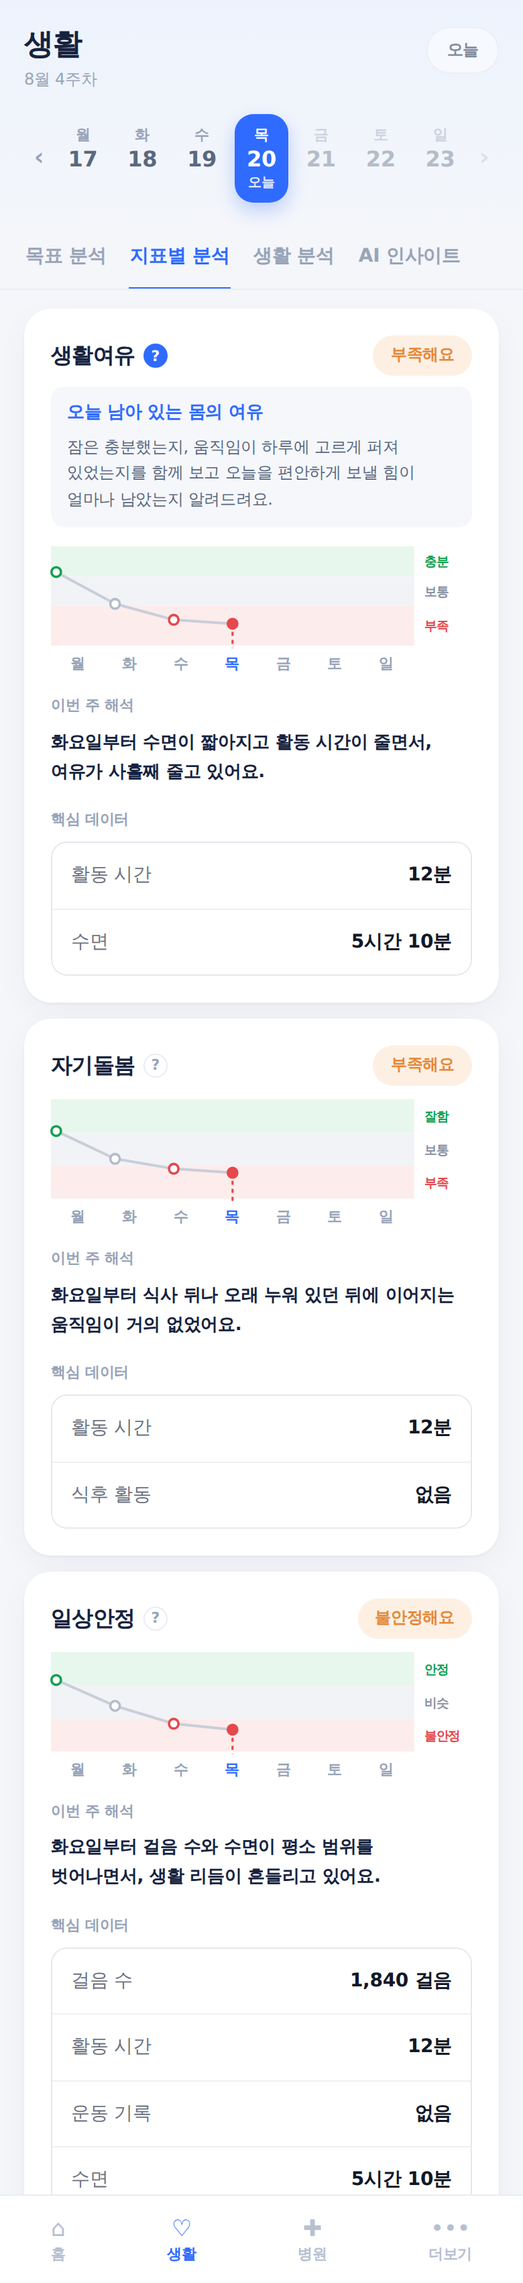
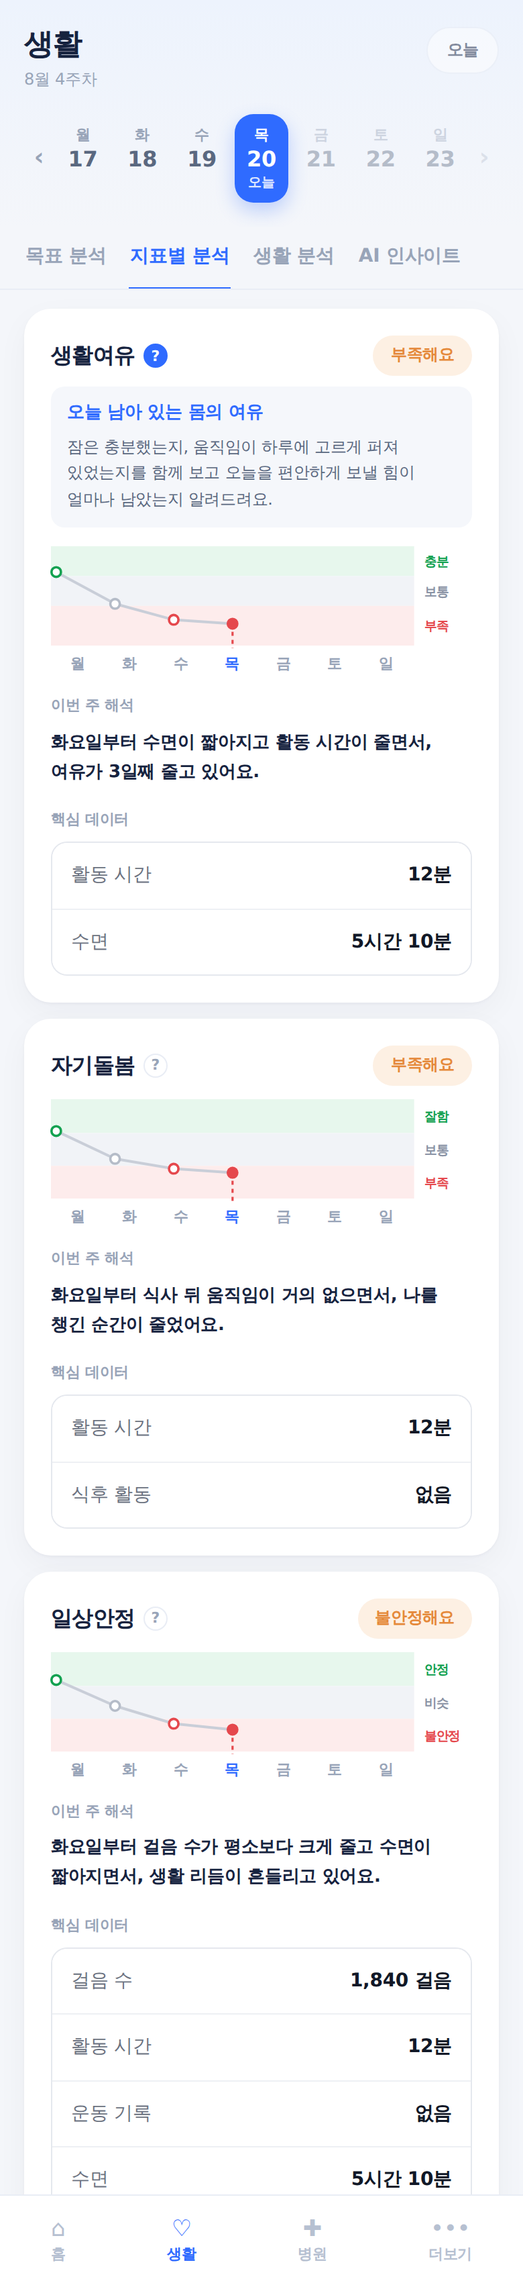
지표 해석 문구 사전 수정(반복 · 유지 표현 · 길이), 문장 세트 재생성, 프로토타입 예시 문장 맞춤

diff --git a/wip-metric-rules.html b/wip-metric-rules.html
@@ -100,7 +100,7 @@ li{margin:3px 0}
   <ul>
     <li>① 흐름 방향과 같은 방향으로 평소 범위에서 가장 많이 벗어난(또는 평소 범위로 돌아온) 항목을 1순위로 선택</li>
     <li>② 같은 방향의 항목이 하나 더 있으면 2순위로 추가(최대 2개). 들쭉날쭉은 1개만, 보통 유지는 이유 없이 결과 문구만 사용</li>
-    <li>③ 흐름 방향: 회복 · 좋음 유지 → 좋아진 항목, 하락 · 주의 지속 → 나빠진 항목, 들쭉날쭉 → 요일별 변동이 가장 큰 항목, 보통 유지 → 평소 범위 안 항목</li>
+    <li>③ 흐름 방향: 회복 → 좋아진 항목, 좋음 유지 → 평소 범위를 꾸준히 지킨 항목, 하락 · 주의 지속 → 나빠진 항목, 들쭉날쭉 → 요일별 변동이 가장 큰 항목</li>
     <li>④ 조건에 맞는 항목이 없으면 이유 없이 결과 문구만 사용(7장 조합 C)</li>
     <li>⑤ 이유에는 핵심 데이터 표에 보이는 항목만 사용(표에 없는 심박 · 칼로리 등은 쓰지 않음). 단 일상안정의 ‘기상 · 취침 시각’은 리듬 설명에 한해 허용</li>
   </ul>
@@ -110,12 +110,12 @@ li{margin:3px 0}
   <h2><span class="n">5</span>이유 문구 사전</h2>
   <div class="sub">선택한 항목과 방향에 맞는 문구를 그대로 사용. 두 개면 ‘A고 B’로 연결</div>
   <table>
-    <tr><th style="width:20%">항목</th><th>좋아짐 · 평소로 돌아옴</th><th>나빠짐 · 평소를 벗어남</th><th style="width:22%">흔들림</th></tr>
-    <tr><td class="k">수면</td><td>수면이 채워지면서</td><td>수면이 짧아지면서</td><td>수면 시간이 날마다 달라지면서</td></tr>
-    <tr><td class="k">활동 시간</td><td>늦은 시간에 몰려 있던 활동이 하루 중간으로 나뉘면서</td><td>활동 시간이 줄면서</td><td>활동 시간이 날마다 달라지면서</td></tr>
-    <tr><td class="k">식후 활동</td><td>식사 뒤와 오래 앉아 있던 뒤에 짧은 걷기가 이어진 날이 늘면서</td><td>식사 뒤나 오래 누워 있던 뒤에 이어지는 움직임이 거의 없으면서</td><td>식후 활동이 있는 날과 없는 날이 번갈아 나타나면서</td></tr>
-    <tr><td class="k">걸음 수</td><td>걸음 수가 평소 범위로 돌아오면서</td><td>걸음 수가 평소 범위를 벗어나면서</td><td>걸음 수가 날마다 크게 달라지면서</td></tr>
-    <tr><td class="k">기상 · 취침 시각</td><td>자고 움직이는 시각이 다시 일정해지면서</td><td>자고 일어나는 시각이 늦어지면서</td><td>자고 일어나는 시각이 날마다 달라지면서</td></tr>
+    <tr><th style="width:16%">항목</th><th>좋아짐 · 평소로 돌아옴 (회복)</th><th>나빠짐 (하락 · 주의 지속)</th><th>흔들림 (들쭉날쭉)</th><th>유지 (좋음 유지)</th></tr>
+    <tr><td class="k">수면</td><td>수면이 채워지면서</td><td>수면이 짧아지면서</td><td>수면 시간이 날마다 달라지면서</td><td>수면이 충분히 채워지면서</td></tr>
+    <tr><td class="k">활동 시간</td><td>늦은 시간에 몰려 있던 활동이 하루 중간으로 나뉘면서</td><td>활동 시간이 줄면서</td><td>활동 시간이 날마다 달라지면서</td><td>활동이 하루 중 고르게 나뉘면서</td></tr>
+    <tr><td class="k">식후 활동</td><td>식사 뒤 짧은 걷기가 이어진 날이 늘면서</td><td>식사 뒤 움직임이 거의 없으면서</td><td>식후 걷기가 이어지다 끊기기를 반복하면서</td><td>식사 뒤 짧은 걷기가 꾸준히 이어지면서</td></tr>
+    <tr><td class="k">걸음 수</td><td>걸음 수가 평소 범위로 돌아오면서</td><td>걸음 수가 평소보다 크게 줄면서</td><td>걸음 수가 날마다 크게 달라지면서</td><td>걸음 수가 평소 범위를 지키면서</td></tr>
+    <tr><td class="k">기상 · 취침 시각</td><td>자고 움직이는 시각이 다시 일정해지면서</td><td>자고 일어나는 시각이 늦어지면서</td><td>자고 일어나는 시각이 날마다 달라지면서</td><td>자고 일어나는 시각이 일정하게 유지되면서</td></tr>
   </table>
   <p style="color:var(--ink-2);font-size:13px">두 항목 연결 시 앞 문구의 ‘~면서’를 ‘~고’로 바꿈. 예: ‘수면이 짧아지고 활동 시간이 줄면서’.</p>
 </section>
@@ -127,8 +127,8 @@ li{margin:3px 0}
     <tr><th style="width:14%">유형</th><th>생활여유</th><th>자기돌봄</th><th>일상안정</th></tr>
     <tr><td class="k">회복</td><td>여유가 다시 앞선 하루가 됐어요.</td><td>나를 챙긴 순간이 다시 늘었어요.</td><td>평소 범위 안에서 흔들림이 줄었어요.</td></tr>
     <tr><td class="k">하락</td><td>여유가 {N}일째 줄고 있어요.</td><td>나를 챙긴 순간이 줄었어요.</td><td>생활 리듬이 흔들리고 있어요.</td></tr>
-    <tr><td class="k">주의 지속</td><td>여유가 부족한 날이 이어지고 있어요.</td><td>나를 챙긴 순간이 드문 날이 이어지고 있어요.</td><td>평소 범위를 벗어난 날이 이어지고 있어요.</td></tr>
-    <tr><td class="k">들쭉날쭉</td><td>여유가 있는 날과 부족한 날이 번갈아 나타났어요.</td><td>챙긴 날과 못 챙긴 날이 번갈아 나타났어요.</td><td>리듬이 날마다 달라졌어요.</td></tr>
+    <tr><td class="k">주의 지속</td><td>여유가 부족한 날이 이어지고 있어요.</td><td>나를 챙긴 순간이 드문 날이 이어지고 있어요.</td><td>생활 리듬이 흔들린 날이 이어지고 있어요.</td></tr>
+    <tr><td class="k">들쭉날쭉</td><td>여유가 있는 날과 부족한 날이 섞여 있었어요.</td><td>나를 챙긴 날과 못 챙긴 날이 섞여 있었어요.</td><td>생활 리듬이 고르지 않았어요.</td></tr>
     <tr><td class="k">좋음 유지</td><td>여유가 넉넉한 흐름이 이어지고 있어요.</td><td>챙길 순간마다 잘 움직이고 있어요.</td><td>생활 리듬이 평소처럼 이어지고 있어요.</td></tr>
     <tr><td class="k">보통 유지</td><td>여유가 평소와 비슷하게 이어지고 있어요.</td><td>챙길 순간의 절반쯤을 움직이고 있어요.</td><td>평소와 비슷한 리듬이에요.</td></tr>
   </table>
@@ -187,16 +187,16 @@ li{margin:3px 0}
     <tr><td class="k">생활여유</td><td>보통 · 주의 · 보통 · 좋음</td><td>회복 · B</td><td>늦은 시간에 몰려 있던 활동이 하루 중간으로 나뉘고 수면이 채워지면서, 여유가 다시 앞선 하루가 됐어요.</td></tr>
     <tr><td class="k">자기돌봄</td><td>보통 · 주의 · 보통 · 보통</td><td>회복 · B + 보충</td><td>식사 뒤와 오래 앉아 있던 뒤에 짧은 걷기가 이어진 날이 늘었어요. 아직 절반쯤이에요.</td></tr>
     <tr><td class="k">일상안정</td><td>보통 · 보통 · 좋음 · 좋음</td><td>회복 · B</td><td>자고 움직이는 시각이 다시 일정해지면서, 평소 범위 안에서 흔들림이 줄었어요.</td></tr>
-    <tr><td class="k">생활여유</td><td>좋음 · 보통 · 주의 · 주의</td><td>하락 · A</td><td>화요일부터 수면이 짧아지고 활동 시간이 줄면서, 여유가 사흘째 줄고 있어요.</td></tr>
-    <tr><td class="k">자기돌봄</td><td>좋음 · 보통 · 주의 · 주의</td><td>하락 · A</td><td>화요일부터 식사 뒤나 오래 누워 있던 뒤에 이어지는 움직임이 거의 없었어요.</td></tr>
-    <tr><td class="k">일상안정</td><td>좋음 · 보통 · 주의 · 주의</td><td>하락 · A</td><td>화요일부터 걸음 수와 수면이 평소 범위를 벗어나면서, 생활 리듬이 흔들리고 있어요.</td></tr>
+    <tr><td class="k">생활여유</td><td>좋음 · 보통 · 주의 · 주의</td><td>하락 · A</td><td>화요일부터 수면이 짧아지고 활동 시간이 줄면서, 여유가 3일째 줄고 있어요.</td></tr>
+    <tr><td class="k">자기돌봄</td><td>좋음 · 보통 · 주의 · 주의</td><td>하락 · A</td><td>화요일부터 식사 뒤 움직임이 거의 없으면서, 나를 챙긴 순간이 줄었어요.</td></tr>
+    <tr><td class="k">일상안정</td><td>좋음 · 보통 · 주의 · 주의</td><td>하락 · A</td><td>화요일부터 걸음 수가 평소보다 크게 줄고 수면이 짧아지면서, 생활 리듬이 흔들리고 있어요.</td></tr>
   </table>
   <div class="callout warn">자기돌봄 회복 예시는 이유 문구가 문장 끝까지 이어지는 형태(‘~늘었어요’)라 조합 B의 ‘{이유}, {결과}’ 대신 이유 문구를 문장으로 끝맺은 경우임. 이유 문구만으로 결과가 드러나면 결과 문구를 생략할 수 있음(자기돌봄 식후 활동 한정).</div>
 </section>
 
 <section class="card" id="s11">
   <h2><span class="n">11</span>문장 세트 (전체)</h2>
-  <div class="sub">3~7장 규칙으로 나올 수 있는 모든 문장 88개 + 기록 부족 1개. {요일}은 변화 시작 요일, {N}은 일수. 이유가 2개일 때 앞뒤 순서는 4장 순위를 따름(아래는 표 순서 기준). 80자를 넘는 조합은 제외함(8장)</div>
+  <div class="sub">3~7장 규칙으로 나올 수 있는 모든 문장 90개 + 기록 부족 1개. {요일}은 변화 시작 요일, {N}은 일수. 이유가 2개일 때 앞뒤 순서는 4장 순위를 따름(아래는 표 순서 기준). 80자를 넘는 조합은 제외함(8장). 이유와 결과 사이에 같은 말이 반복되지 않도록 점검함</div>
   <table>
     <tr><th style="width:9%">지표</th><th style="width:9%">유형</th><th style="width:16%">이유 항목</th><th style="width:6%">조합</th><th>문장</th></tr>
     <tr><td class="k">생활여유</td><td>회복</td><td>없음</td><td>C</td><td>여유가 다시 앞선 하루가 됐어요.</td></tr>
@@ -211,31 +211,33 @@ li{margin:3px 0}
     <tr><td class="k">생활여유</td><td>주의 지속</td><td>수면</td><td>A</td><td>{요일}부터 수면이 짧아지면서, 여유가 부족한 날이 이어지고 있어요.</td></tr>
     <tr><td class="k">생활여유</td><td>주의 지속</td><td>활동 시간</td><td>A</td><td>{요일}부터 활동 시간이 줄면서, 여유가 부족한 날이 이어지고 있어요.</td></tr>
     <tr><td class="k">생활여유</td><td>주의 지속</td><td>수면 + 활동 시간</td><td>A</td><td>{요일}부터 수면이 짧아지고 활동 시간이 줄면서, 여유가 부족한 날이 이어지고 있어요.</td></tr>
-    <tr><td class="k">생활여유</td><td>들쭉날쭉</td><td>없음</td><td>C</td><td>여유가 있는 날과 부족한 날이 번갈아 나타났어요.</td></tr>
-    <tr><td class="k">생활여유</td><td>들쭉날쭉</td><td>수면</td><td>B</td><td>수면 시간이 날마다 달라지면서, 여유가 있는 날과 부족한 날이 번갈아 나타났어요.</td></tr>
-    <tr><td class="k">생활여유</td><td>들쭉날쭉</td><td>활동 시간</td><td>B</td><td>활동 시간이 날마다 달라지면서, 여유가 있는 날과 부족한 날이 번갈아 나타났어요.</td></tr>
+    <tr><td class="k">생활여유</td><td>들쭉날쭉</td><td>없음</td><td>C</td><td>여유가 있는 날과 부족한 날이 섞여 있었어요.</td></tr>
+    <tr><td class="k">생활여유</td><td>들쭉날쭉</td><td>수면</td><td>B</td><td>수면 시간이 날마다 달라지면서, 여유가 있는 날과 부족한 날이 섞여 있었어요.</td></tr>
+    <tr><td class="k">생활여유</td><td>들쭉날쭉</td><td>활동 시간</td><td>B</td><td>활동 시간이 날마다 달라지면서, 여유가 있는 날과 부족한 날이 섞여 있었어요.</td></tr>
     <tr><td class="k">생활여유</td><td>좋음 유지</td><td>없음</td><td>C</td><td>여유가 넉넉한 흐름이 이어지고 있어요.</td></tr>
-    <tr><td class="k">생활여유</td><td>좋음 유지</td><td>수면</td><td>B</td><td>수면이 채워지면서, 여유가 넉넉한 흐름이 이어지고 있어요.</td></tr>
-    <tr><td class="k">생활여유</td><td>좋음 유지</td><td>활동 시간</td><td>B</td><td>늦은 시간에 몰려 있던 활동이 하루 중간으로 나뉘면서, 여유가 넉넉한 흐름이 이어지고 있어요.</td></tr>
-    <tr><td class="k">생활여유</td><td>좋음 유지</td><td>수면 + 활동 시간</td><td>B</td><td>수면이 채워지고 늦은 시간에 몰려 있던 활동이 하루 중간으로 나뉘면서, 여유가 넉넉한 흐름이 이어지고 있어요.</td></tr>
+    <tr><td class="k">생활여유</td><td>좋음 유지</td><td>수면</td><td>B</td><td>수면이 충분히 채워지면서, 여유가 넉넉한 흐름이 이어지고 있어요.</td></tr>
+    <tr><td class="k">생활여유</td><td>좋음 유지</td><td>활동 시간</td><td>B</td><td>활동이 하루 중 고르게 나뉘면서, 여유가 넉넉한 흐름이 이어지고 있어요.</td></tr>
+    <tr><td class="k">생활여유</td><td>좋음 유지</td><td>수면 + 활동 시간</td><td>B</td><td>수면이 충분히 채워지고 활동이 하루 중 고르게 나뉘면서, 여유가 넉넉한 흐름이 이어지고 있어요.</td></tr>
     <tr><td class="k">생활여유</td><td>보통 유지</td><td>없음</td><td>C</td><td>여유가 평소와 비슷하게 이어지고 있어요.</td></tr>
     <tr><td class="k">자기돌봄</td><td>회복</td><td>없음</td><td>C</td><td>나를 챙긴 순간이 다시 늘었어요.</td></tr>
     <tr><td class="k">자기돌봄</td><td>회복</td><td>식후 활동</td><td>예외</td><td>식사 뒤와 오래 앉아 있던 뒤에 짧은 걷기가 이어진 날이 늘었어요. (오늘 보통이면 + 아직 절반쯤이에요.)</td></tr>
     <tr><td class="k">자기돌봄</td><td>회복</td><td>활동 시간</td><td>B</td><td>늦은 시간에 몰려 있던 활동이 하루 중간으로 나뉘면서, 나를 챙긴 순간이 다시 늘었어요. (오늘 보통이면 + 아직 절반쯤이에요.)</td></tr>
+    <tr><td class="k">자기돌봄</td><td>회복</td><td>식후 활동 + 활동 시간</td><td>B</td><td>식사 뒤 짧은 걷기가 이어진 날이 늘고 늦은 시간에 몰려 있던 활동이 하루 중간으로 나뉘면서, 나를 챙긴 순간이 다시 늘었어요. (오늘 보통이면 + 아직 절반쯤이에요.)</td></tr>
     <tr><td class="k">자기돌봄</td><td>하락</td><td>없음</td><td>C</td><td>나를 챙긴 순간이 줄었어요.</td></tr>
-    <tr><td class="k">자기돌봄</td><td>하락</td><td>식후 활동</td><td>A</td><td>{요일}부터 식사 뒤나 오래 누워 있던 뒤에 이어지는 움직임이 거의 없으면서, 나를 챙긴 순간이 줄었어요.</td></tr>
+    <tr><td class="k">자기돌봄</td><td>하락</td><td>식후 활동</td><td>A</td><td>{요일}부터 식사 뒤 움직임이 거의 없으면서, 나를 챙긴 순간이 줄었어요.</td></tr>
     <tr><td class="k">자기돌봄</td><td>하락</td><td>활동 시간</td><td>A</td><td>{요일}부터 활동 시간이 줄면서, 나를 챙긴 순간이 줄었어요.</td></tr>
-    <tr><td class="k">자기돌봄</td><td>하락</td><td>식후 활동 + 활동 시간</td><td>A</td><td>{요일}부터 식사 뒤나 오래 누워 있던 뒤에 이어지는 움직임이 거의 없고 활동 시간이 줄면서, 나를 챙긴 순간이 줄었어요.</td></tr>
+    <tr><td class="k">자기돌봄</td><td>하락</td><td>식후 활동 + 활동 시간</td><td>A</td><td>{요일}부터 식사 뒤 움직임이 거의 없고 활동 시간이 줄면서, 나를 챙긴 순간이 줄었어요.</td></tr>
     <tr><td class="k">자기돌봄</td><td>주의 지속</td><td>없음</td><td>C</td><td>나를 챙긴 순간이 드문 날이 이어지고 있어요.</td></tr>
-    <tr><td class="k">자기돌봄</td><td>주의 지속</td><td>식후 활동</td><td>A</td><td>{요일}부터 식사 뒤나 오래 누워 있던 뒤에 이어지는 움직임이 거의 없으면서, 나를 챙긴 순간이 드문 날이 이어지고 있어요.</td></tr>
+    <tr><td class="k">자기돌봄</td><td>주의 지속</td><td>식후 활동</td><td>A</td><td>{요일}부터 식사 뒤 움직임이 거의 없으면서, 나를 챙긴 순간이 드문 날이 이어지고 있어요.</td></tr>
     <tr><td class="k">자기돌봄</td><td>주의 지속</td><td>활동 시간</td><td>A</td><td>{요일}부터 활동 시간이 줄면서, 나를 챙긴 순간이 드문 날이 이어지고 있어요.</td></tr>
-    <tr><td class="k">자기돌봄</td><td>주의 지속</td><td>식후 활동 + 활동 시간</td><td>A</td><td>{요일}부터 식사 뒤나 오래 누워 있던 뒤에 이어지는 움직임이 거의 없고 활동 시간이 줄면서, 나를 챙긴 순간이 드문 날이 이어지고 있어요.</td></tr>
-    <tr><td class="k">자기돌봄</td><td>들쭉날쭉</td><td>없음</td><td>C</td><td>챙긴 날과 못 챙긴 날이 번갈아 나타났어요.</td></tr>
-    <tr><td class="k">자기돌봄</td><td>들쭉날쭉</td><td>식후 활동</td><td>B</td><td>식후 활동이 있는 날과 없는 날이 번갈아 나타나면서, 챙긴 날과 못 챙긴 날이 번갈아 나타났어요.</td></tr>
-    <tr><td class="k">자기돌봄</td><td>들쭉날쭉</td><td>활동 시간</td><td>B</td><td>활동 시간이 날마다 달라지면서, 챙긴 날과 못 챙긴 날이 번갈아 나타났어요.</td></tr>
+    <tr><td class="k">자기돌봄</td><td>주의 지속</td><td>식후 활동 + 활동 시간</td><td>A</td><td>{요일}부터 식사 뒤 움직임이 거의 없고 활동 시간이 줄면서, 나를 챙긴 순간이 드문 날이 이어지고 있어요.</td></tr>
+    <tr><td class="k">자기돌봄</td><td>들쭉날쭉</td><td>없음</td><td>C</td><td>나를 챙긴 날과 못 챙긴 날이 섞여 있었어요.</td></tr>
+    <tr><td class="k">자기돌봄</td><td>들쭉날쭉</td><td>식후 활동</td><td>B</td><td>식후 걷기가 이어지다 끊기기를 반복하면서, 나를 챙긴 날과 못 챙긴 날이 섞여 있었어요.</td></tr>
+    <tr><td class="k">자기돌봄</td><td>들쭉날쭉</td><td>활동 시간</td><td>B</td><td>활동 시간이 날마다 달라지면서, 나를 챙긴 날과 못 챙긴 날이 섞여 있었어요.</td></tr>
     <tr><td class="k">자기돌봄</td><td>좋음 유지</td><td>없음</td><td>C</td><td>챙길 순간마다 잘 움직이고 있어요.</td></tr>
-    <tr><td class="k">자기돌봄</td><td>좋음 유지</td><td>식후 활동</td><td>B</td><td>식사 뒤와 오래 앉아 있던 뒤에 짧은 걷기가 이어진 날이 늘면서, 챙길 순간마다 잘 움직이고 있어요.</td></tr>
-    <tr><td class="k">자기돌봄</td><td>좋음 유지</td><td>활동 시간</td><td>B</td><td>늦은 시간에 몰려 있던 활동이 하루 중간으로 나뉘면서, 챙길 순간마다 잘 움직이고 있어요.</td></tr>
+    <tr><td class="k">자기돌봄</td><td>좋음 유지</td><td>식후 활동</td><td>B</td><td>식사 뒤 짧은 걷기가 꾸준히 이어지면서, 챙길 순간마다 잘 움직이고 있어요.</td></tr>
+    <tr><td class="k">자기돌봄</td><td>좋음 유지</td><td>활동 시간</td><td>B</td><td>활동이 하루 중 고르게 나뉘면서, 챙길 순간마다 잘 움직이고 있어요.</td></tr>
+    <tr><td class="k">자기돌봄</td><td>좋음 유지</td><td>식후 활동 + 활동 시간</td><td>B</td><td>식사 뒤 짧은 걷기가 꾸준히 이어지고 활동이 하루 중 고르게 나뉘면서, 챙길 순간마다 잘 움직이고 있어요.</td></tr>
     <tr><td class="k">자기돌봄</td><td>보통 유지</td><td>없음</td><td>C</td><td>챙길 순간의 절반쯤을 움직이고 있어요.</td></tr>
     <tr><td class="k">일상안정</td><td>회복</td><td>없음</td><td>C</td><td>평소 범위 안에서 흔들림이 줄었어요.</td></tr>
     <tr><td class="k">일상안정</td><td>회복</td><td>기상 · 취침 시각</td><td>B</td><td>자고 움직이는 시각이 다시 일정해지면서, 평소 범위 안에서 흔들림이 줄었어요.</td></tr>
@@ -250,42 +252,42 @@ li{margin:3px 0}
     <tr><td class="k">일상안정</td><td>회복</td><td>수면 + 활동 시간</td><td>B</td><td>수면이 채워지고 늦은 시간에 몰려 있던 활동이 하루 중간으로 나뉘면서, 평소 범위 안에서 흔들림이 줄었어요.</td></tr>
     <tr><td class="k">일상안정</td><td>하락</td><td>없음</td><td>C</td><td>생활 리듬이 흔들리고 있어요.</td></tr>
     <tr><td class="k">일상안정</td><td>하락</td><td>기상 · 취침 시각</td><td>A</td><td>{요일}부터 자고 일어나는 시각이 늦어지면서, 생활 리듬이 흔들리고 있어요.</td></tr>
-    <tr><td class="k">일상안정</td><td>하락</td><td>걸음 수</td><td>A</td><td>{요일}부터 걸음 수가 평소 범위를 벗어나면서, 생활 리듬이 흔들리고 있어요.</td></tr>
+    <tr><td class="k">일상안정</td><td>하락</td><td>걸음 수</td><td>A</td><td>{요일}부터 걸음 수가 평소보다 크게 줄면서, 생활 리듬이 흔들리고 있어요.</td></tr>
     <tr><td class="k">일상안정</td><td>하락</td><td>수면</td><td>A</td><td>{요일}부터 수면이 짧아지면서, 생활 리듬이 흔들리고 있어요.</td></tr>
     <tr><td class="k">일상안정</td><td>하락</td><td>활동 시간</td><td>A</td><td>{요일}부터 활동 시간이 줄면서, 생활 리듬이 흔들리고 있어요.</td></tr>
-    <tr><td class="k">일상안정</td><td>하락</td><td>기상 · 취침 시각 + 걸음 수</td><td>A</td><td>{요일}부터 자고 일어나는 시각이 늦어지고 걸음 수가 평소 범위를 벗어나면서, 생활 리듬이 흔들리고 있어요.</td></tr>
+    <tr><td class="k">일상안정</td><td>하락</td><td>기상 · 취침 시각 + 걸음 수</td><td>A</td><td>{요일}부터 자고 일어나는 시각이 늦어지고 걸음 수가 평소보다 크게 줄면서, 생활 리듬이 흔들리고 있어요.</td></tr>
     <tr><td class="k">일상안정</td><td>하락</td><td>기상 · 취침 시각 + 수면</td><td>A</td><td>{요일}부터 자고 일어나는 시각이 늦어지고 수면이 짧아지면서, 생활 리듬이 흔들리고 있어요.</td></tr>
     <tr><td class="k">일상안정</td><td>하락</td><td>기상 · 취침 시각 + 활동 시간</td><td>A</td><td>{요일}부터 자고 일어나는 시각이 늦어지고 활동 시간이 줄면서, 생활 리듬이 흔들리고 있어요.</td></tr>
-    <tr><td class="k">일상안정</td><td>하락</td><td>걸음 수 + 수면</td><td>A</td><td>{요일}부터 걸음 수가 평소 범위를 벗어나고 수면이 짧아지면서, 생활 리듬이 흔들리고 있어요.</td></tr>
-    <tr><td class="k">일상안정</td><td>하락</td><td>걸음 수 + 활동 시간</td><td>A</td><td>{요일}부터 걸음 수가 평소 범위를 벗어나고 활동 시간이 줄면서, 생활 리듬이 흔들리고 있어요.</td></tr>
+    <tr><td class="k">일상안정</td><td>하락</td><td>걸음 수 + 수면</td><td>A</td><td>{요일}부터 걸음 수가 평소보다 크게 줄고 수면이 짧아지면서, 생활 리듬이 흔들리고 있어요.</td></tr>
+    <tr><td class="k">일상안정</td><td>하락</td><td>걸음 수 + 활동 시간</td><td>A</td><td>{요일}부터 걸음 수가 평소보다 크게 줄고 활동 시간이 줄면서, 생활 리듬이 흔들리고 있어요.</td></tr>
     <tr><td class="k">일상안정</td><td>하락</td><td>수면 + 활동 시간</td><td>A</td><td>{요일}부터 수면이 짧아지고 활동 시간이 줄면서, 생활 리듬이 흔들리고 있어요.</td></tr>
-    <tr><td class="k">일상안정</td><td>주의 지속</td><td>없음</td><td>C</td><td>평소 범위를 벗어난 날이 이어지고 있어요.</td></tr>
-    <tr><td class="k">일상안정</td><td>주의 지속</td><td>기상 · 취침 시각</td><td>A</td><td>{요일}부터 자고 일어나는 시각이 늦어지면서, 평소 범위를 벗어난 날이 이어지고 있어요.</td></tr>
-    <tr><td class="k">일상안정</td><td>주의 지속</td><td>걸음 수</td><td>A</td><td>{요일}부터 걸음 수가 평소 범위를 벗어나면서, 평소 범위를 벗어난 날이 이어지고 있어요.</td></tr>
-    <tr><td class="k">일상안정</td><td>주의 지속</td><td>수면</td><td>A</td><td>{요일}부터 수면이 짧아지면서, 평소 범위를 벗어난 날이 이어지고 있어요.</td></tr>
-    <tr><td class="k">일상안정</td><td>주의 지속</td><td>활동 시간</td><td>A</td><td>{요일}부터 활동 시간이 줄면서, 평소 범위를 벗어난 날이 이어지고 있어요.</td></tr>
-    <tr><td class="k">일상안정</td><td>주의 지속</td><td>기상 · 취침 시각 + 걸음 수</td><td>A</td><td>{요일}부터 자고 일어나는 시각이 늦어지고 걸음 수가 평소 범위를 벗어나면서, 평소 범위를 벗어난 날이 이어지고 있어요.</td></tr>
-    <tr><td class="k">일상안정</td><td>주의 지속</td><td>기상 · 취침 시각 + 수면</td><td>A</td><td>{요일}부터 자고 일어나는 시각이 늦어지고 수면이 짧아지면서, 평소 범위를 벗어난 날이 이어지고 있어요.</td></tr>
-    <tr><td class="k">일상안정</td><td>주의 지속</td><td>기상 · 취침 시각 + 활동 시간</td><td>A</td><td>{요일}부터 자고 일어나는 시각이 늦어지고 활동 시간이 줄면서, 평소 범위를 벗어난 날이 이어지고 있어요.</td></tr>
-    <tr><td class="k">일상안정</td><td>주의 지속</td><td>걸음 수 + 수면</td><td>A</td><td>{요일}부터 걸음 수가 평소 범위를 벗어나고 수면이 짧아지면서, 평소 범위를 벗어난 날이 이어지고 있어요.</td></tr>
-    <tr><td class="k">일상안정</td><td>주의 지속</td><td>걸음 수 + 활동 시간</td><td>A</td><td>{요일}부터 걸음 수가 평소 범위를 벗어나고 활동 시간이 줄면서, 평소 범위를 벗어난 날이 이어지고 있어요.</td></tr>
-    <tr><td class="k">일상안정</td><td>주의 지속</td><td>수면 + 활동 시간</td><td>A</td><td>{요일}부터 수면이 짧아지고 활동 시간이 줄면서, 평소 범위를 벗어난 날이 이어지고 있어요.</td></tr>
-    <tr><td class="k">일상안정</td><td>들쭉날쭉</td><td>없음</td><td>C</td><td>리듬이 날마다 달라졌어요.</td></tr>
-    <tr><td class="k">일상안정</td><td>들쭉날쭉</td><td>기상 · 취침 시각</td><td>B</td><td>자고 일어나는 시각이 날마다 달라지면서, 리듬이 날마다 달라졌어요.</td></tr>
-    <tr><td class="k">일상안정</td><td>들쭉날쭉</td><td>걸음 수</td><td>B</td><td>걸음 수가 날마다 크게 달라지면서, 리듬이 날마다 달라졌어요.</td></tr>
-    <tr><td class="k">일상안정</td><td>들쭉날쭉</td><td>수면</td><td>B</td><td>수면 시간이 날마다 달라지면서, 리듬이 날마다 달라졌어요.</td></tr>
-    <tr><td class="k">일상안정</td><td>들쭉날쭉</td><td>활동 시간</td><td>B</td><td>활동 시간이 날마다 달라지면서, 리듬이 날마다 달라졌어요.</td></tr>
+    <tr><td class="k">일상안정</td><td>주의 지속</td><td>없음</td><td>C</td><td>생활 리듬이 흔들린 날이 이어지고 있어요.</td></tr>
+    <tr><td class="k">일상안정</td><td>주의 지속</td><td>기상 · 취침 시각</td><td>A</td><td>{요일}부터 자고 일어나는 시각이 늦어지면서, 생활 리듬이 흔들린 날이 이어지고 있어요.</td></tr>
+    <tr><td class="k">일상안정</td><td>주의 지속</td><td>걸음 수</td><td>A</td><td>{요일}부터 걸음 수가 평소보다 크게 줄면서, 생활 리듬이 흔들린 날이 이어지고 있어요.</td></tr>
+    <tr><td class="k">일상안정</td><td>주의 지속</td><td>수면</td><td>A</td><td>{요일}부터 수면이 짧아지면서, 생활 리듬이 흔들린 날이 이어지고 있어요.</td></tr>
+    <tr><td class="k">일상안정</td><td>주의 지속</td><td>활동 시간</td><td>A</td><td>{요일}부터 활동 시간이 줄면서, 생활 리듬이 흔들린 날이 이어지고 있어요.</td></tr>
+    <tr><td class="k">일상안정</td><td>주의 지속</td><td>기상 · 취침 시각 + 걸음 수</td><td>A</td><td>{요일}부터 자고 일어나는 시각이 늦어지고 걸음 수가 평소보다 크게 줄면서, 생활 리듬이 흔들린 날이 이어지고 있어요.</td></tr>
+    <tr><td class="k">일상안정</td><td>주의 지속</td><td>기상 · 취침 시각 + 수면</td><td>A</td><td>{요일}부터 자고 일어나는 시각이 늦어지고 수면이 짧아지면서, 생활 리듬이 흔들린 날이 이어지고 있어요.</td></tr>
+    <tr><td class="k">일상안정</td><td>주의 지속</td><td>기상 · 취침 시각 + 활동 시간</td><td>A</td><td>{요일}부터 자고 일어나는 시각이 늦어지고 활동 시간이 줄면서, 생활 리듬이 흔들린 날이 이어지고 있어요.</td></tr>
+    <tr><td class="k">일상안정</td><td>주의 지속</td><td>걸음 수 + 수면</td><td>A</td><td>{요일}부터 걸음 수가 평소보다 크게 줄고 수면이 짧아지면서, 생활 리듬이 흔들린 날이 이어지고 있어요.</td></tr>
+    <tr><td class="k">일상안정</td><td>주의 지속</td><td>걸음 수 + 활동 시간</td><td>A</td><td>{요일}부터 걸음 수가 평소보다 크게 줄고 활동 시간이 줄면서, 생활 리듬이 흔들린 날이 이어지고 있어요.</td></tr>
+    <tr><td class="k">일상안정</td><td>주의 지속</td><td>수면 + 활동 시간</td><td>A</td><td>{요일}부터 수면이 짧아지고 활동 시간이 줄면서, 생활 리듬이 흔들린 날이 이어지고 있어요.</td></tr>
+    <tr><td class="k">일상안정</td><td>들쭉날쭉</td><td>없음</td><td>C</td><td>생활 리듬이 고르지 않았어요.</td></tr>
+    <tr><td class="k">일상안정</td><td>들쭉날쭉</td><td>기상 · 취침 시각</td><td>B</td><td>자고 일어나는 시각이 날마다 달라지면서, 생활 리듬이 고르지 않았어요.</td></tr>
+    <tr><td class="k">일상안정</td><td>들쭉날쭉</td><td>걸음 수</td><td>B</td><td>걸음 수가 날마다 크게 달라지면서, 생활 리듬이 고르지 않았어요.</td></tr>
+    <tr><td class="k">일상안정</td><td>들쭉날쭉</td><td>수면</td><td>B</td><td>수면 시간이 날마다 달라지면서, 생활 리듬이 고르지 않았어요.</td></tr>
+    <tr><td class="k">일상안정</td><td>들쭉날쭉</td><td>활동 시간</td><td>B</td><td>활동 시간이 날마다 달라지면서, 생활 리듬이 고르지 않았어요.</td></tr>
     <tr><td class="k">일상안정</td><td>좋음 유지</td><td>없음</td><td>C</td><td>생활 리듬이 평소처럼 이어지고 있어요.</td></tr>
-    <tr><td class="k">일상안정</td><td>좋음 유지</td><td>기상 · 취침 시각</td><td>B</td><td>자고 움직이는 시각이 다시 일정해지면서, 생활 리듬이 평소처럼 이어지고 있어요.</td></tr>
-    <tr><td class="k">일상안정</td><td>좋음 유지</td><td>걸음 수</td><td>B</td><td>걸음 수가 평소 범위로 돌아오면서, 생활 리듬이 평소처럼 이어지고 있어요.</td></tr>
-    <tr><td class="k">일상안정</td><td>좋음 유지</td><td>수면</td><td>B</td><td>수면이 채워지면서, 생활 리듬이 평소처럼 이어지고 있어요.</td></tr>
-    <tr><td class="k">일상안정</td><td>좋음 유지</td><td>활동 시간</td><td>B</td><td>늦은 시간에 몰려 있던 활동이 하루 중간으로 나뉘면서, 생활 리듬이 평소처럼 이어지고 있어요.</td></tr>
-    <tr><td class="k">일상안정</td><td>좋음 유지</td><td>기상 · 취침 시각 + 걸음 수</td><td>B</td><td>자고 움직이는 시각이 다시 일정해지고 걸음 수가 평소 범위로 돌아오면서, 생활 리듬이 평소처럼 이어지고 있어요.</td></tr>
-    <tr><td class="k">일상안정</td><td>좋음 유지</td><td>기상 · 취침 시각 + 수면</td><td>B</td><td>자고 움직이는 시각이 다시 일정해지고 수면이 채워지면서, 생활 리듬이 평소처럼 이어지고 있어요.</td></tr>
-    <tr><td class="k">일상안정</td><td>좋음 유지</td><td>기상 · 취침 시각 + 활동 시간</td><td>B</td><td>자고 움직이는 시각이 다시 일정해지고 늦은 시간에 몰려 있던 활동이 하루 중간으로 나뉘면서, 생활 리듬이 평소처럼 이어지고 있어요.</td></tr>
-    <tr><td class="k">일상안정</td><td>좋음 유지</td><td>걸음 수 + 수면</td><td>B</td><td>걸음 수가 평소 범위로 돌아오고 수면이 채워지면서, 생활 리듬이 평소처럼 이어지고 있어요.</td></tr>
-    <tr><td class="k">일상안정</td><td>좋음 유지</td><td>걸음 수 + 활동 시간</td><td>B</td><td>걸음 수가 평소 범위로 돌아오고 늦은 시간에 몰려 있던 활동이 하루 중간으로 나뉘면서, 생활 리듬이 평소처럼 이어지고 있어요.</td></tr>
-    <tr><td class="k">일상안정</td><td>좋음 유지</td><td>수면 + 활동 시간</td><td>B</td><td>수면이 채워지고 늦은 시간에 몰려 있던 활동이 하루 중간으로 나뉘면서, 생활 리듬이 평소처럼 이어지고 있어요.</td></tr>
+    <tr><td class="k">일상안정</td><td>좋음 유지</td><td>기상 · 취침 시각</td><td>B</td><td>자고 일어나는 시각이 일정하게 유지되면서, 생활 리듬이 평소처럼 이어지고 있어요.</td></tr>
+    <tr><td class="k">일상안정</td><td>좋음 유지</td><td>걸음 수</td><td>B</td><td>걸음 수가 평소 범위를 지키면서, 생활 리듬이 평소처럼 이어지고 있어요.</td></tr>
+    <tr><td class="k">일상안정</td><td>좋음 유지</td><td>수면</td><td>B</td><td>수면이 충분히 채워지면서, 생활 리듬이 평소처럼 이어지고 있어요.</td></tr>
+    <tr><td class="k">일상안정</td><td>좋음 유지</td><td>활동 시간</td><td>B</td><td>활동이 하루 중 고르게 나뉘면서, 생활 리듬이 평소처럼 이어지고 있어요.</td></tr>
+    <tr><td class="k">일상안정</td><td>좋음 유지</td><td>기상 · 취침 시각 + 걸음 수</td><td>B</td><td>자고 일어나는 시각이 일정하게 유지되고 걸음 수가 평소 범위를 지키면서, 생활 리듬이 평소처럼 이어지고 있어요.</td></tr>
+    <tr><td class="k">일상안정</td><td>좋음 유지</td><td>기상 · 취침 시각 + 수면</td><td>B</td><td>자고 일어나는 시각이 일정하게 유지되고 수면이 충분히 채워지면서, 생활 리듬이 평소처럼 이어지고 있어요.</td></tr>
+    <tr><td class="k">일상안정</td><td>좋음 유지</td><td>기상 · 취침 시각 + 활동 시간</td><td>B</td><td>자고 일어나는 시각이 일정하게 유지되고 활동이 하루 중 고르게 나뉘면서, 생활 리듬이 평소처럼 이어지고 있어요.</td></tr>
+    <tr><td class="k">일상안정</td><td>좋음 유지</td><td>걸음 수 + 수면</td><td>B</td><td>걸음 수가 평소 범위를 지키고 수면이 충분히 채워지면서, 생활 리듬이 평소처럼 이어지고 있어요.</td></tr>
+    <tr><td class="k">일상안정</td><td>좋음 유지</td><td>걸음 수 + 활동 시간</td><td>B</td><td>걸음 수가 평소 범위를 지키고 활동이 하루 중 고르게 나뉘면서, 생활 리듬이 평소처럼 이어지고 있어요.</td></tr>
+    <tr><td class="k">일상안정</td><td>좋음 유지</td><td>수면 + 활동 시간</td><td>B</td><td>수면이 충분히 채워지고 활동이 하루 중 고르게 나뉘면서, 생활 리듬이 평소처럼 이어지고 있어요.</td></tr>
     <tr><td class="k">일상안정</td><td>보통 유지</td><td>없음</td><td>C</td><td>평소와 비슷한 리듬이에요.</td></tr>
     <tr><td class="k">공통</td><td>기록 부족</td><td>—</td><td>—</td><td>아직 흐름을 말하기엔 기록이 적어요.</td></tr>
   </table>

diff --git a/prototype.html b/prototype.html
@@ -4243,9 +4243,9 @@ const CASE_DATA = {
     metricState:{ margin:'low', selfcare:'low', steady:'low' },
     metricWeek:{ margin:[74,42,26,22,null,null,null], selfcare:[68,40,30,26,null,null,null], steady:[72,46,28,22,null,null,null] },
     metricIns:{
-      margin:'화요일부터 수면이 짧아지고 활동 시간이 줄면서, 여유가 사흘째 줄고 있어요.',
-      selfcare:'화요일부터 식사 뒤나 오래 누워 있던 뒤에 이어지는 움직임이 거의 없었어요.',
-      steady:'화요일부터 걸음 수와 수면이 평소 범위를 벗어나면서, 생활 리듬이 흔들리고 있어요.' },
+      margin:'화요일부터 수면이 짧아지고 활동 시간이 줄면서, 여유가 3일째 줄고 있어요.',
+      selfcare:'화요일부터 식사 뒤 움직임이 거의 없으면서, 나를 챙긴 순간이 줄었어요.',
+      steady:'화요일부터 걸음 수가 평소보다 크게 줄고 수면이 짧아지면서, 생활 리듬이 흔들리고 있어요.' },
     series:{
       sleep:{v:[7.2,5.9,5.3,5.17,null,null,null], t:['7시간 12분','5시간 54분','5시간 18분','5시간 10분','–','–','–'], avg:'5시간 54분'},
       bed:  {v:[23.17,23.83,24.67,23.5,null,null,null], t:['23시 10분','23시 50분','00시 40분','23시 30분','–','–','–'], avg:'23시 47분'},
